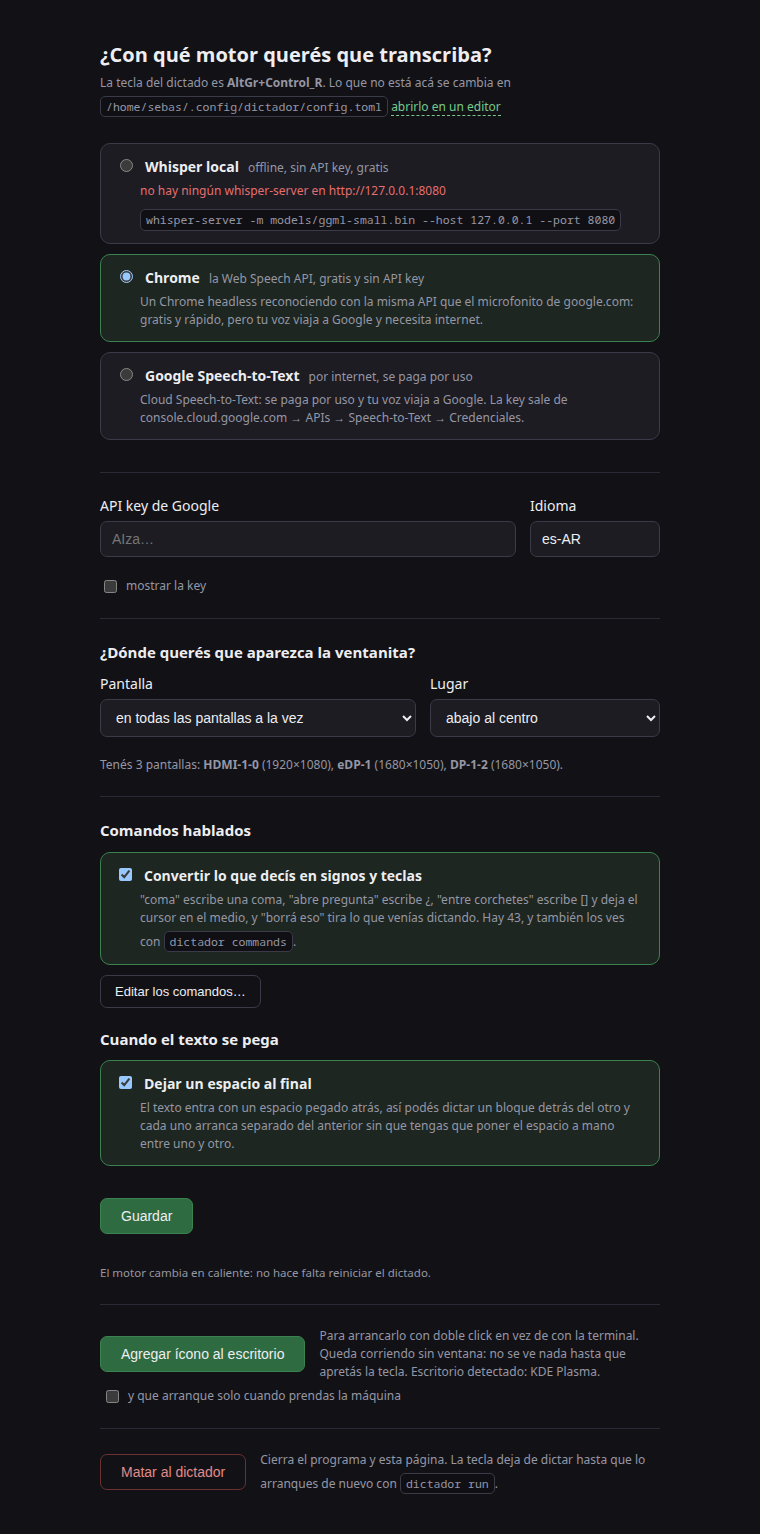
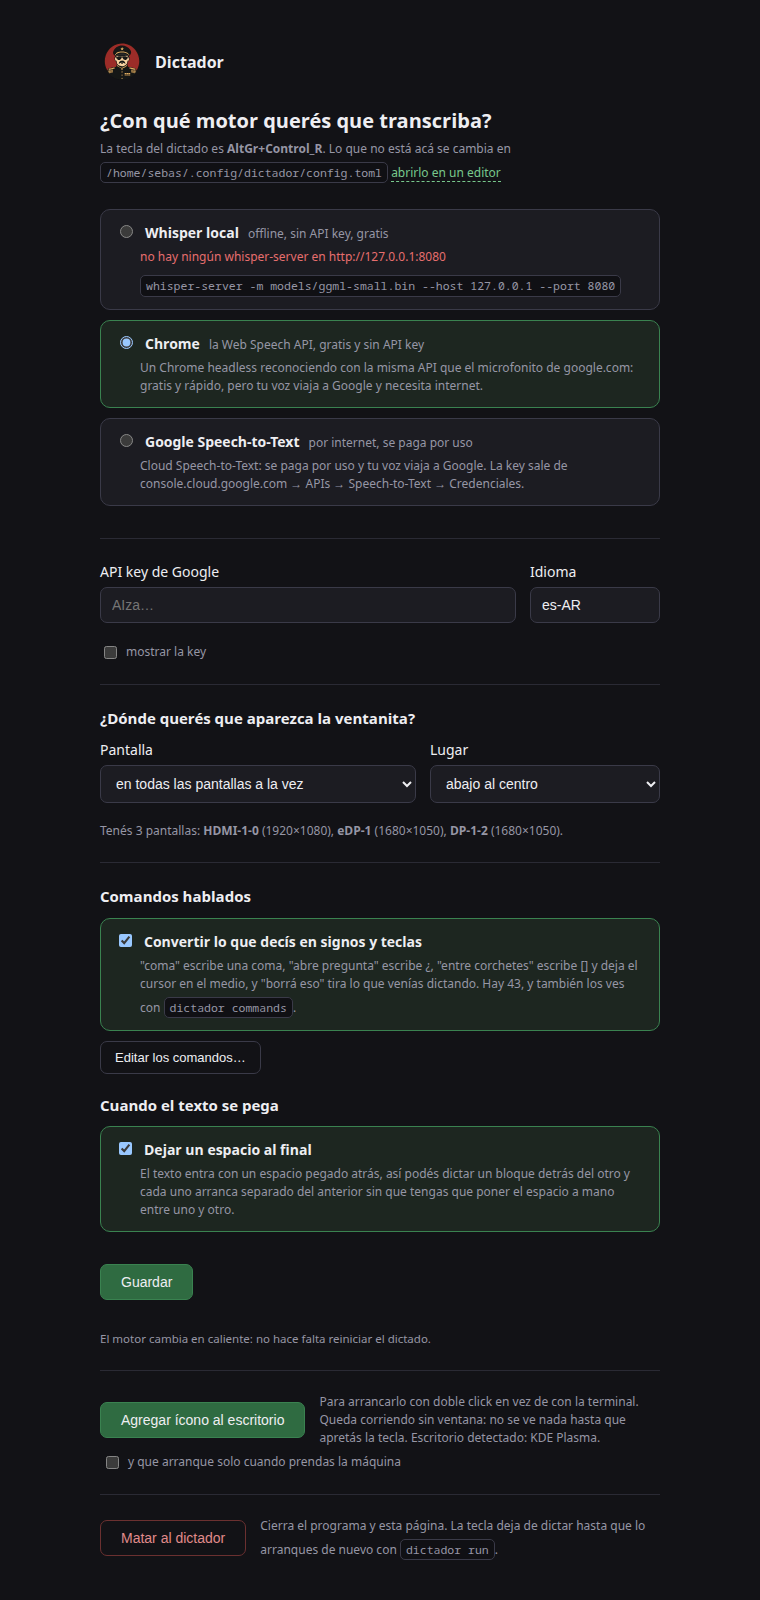
El dictador de la gorra, en el escritorio y en la configuración
El ícono era un micrófono dibujado a mano que servía de marcador de posición.
Ahora es el dictador de gorra y anteojos negros, y es el mismo archivo en los dos
lugares donde se ve: el que se copia a ~/.local/share/icons cuando se crea el
atajo, y el que la página de configuración sirve en /icon.svg.

La página lo pide por URL en vez de traerlo pegado adentro del HTML porque el
favicon necesita una dirección sí o sí, y ese favicon es además lo que se ve en
la barra de tareas mientras la config está abierta: la ventana la abre un Chrome
en modo aplicación, sin barra de direcciones. Arriba del título va el mismo
dibujo con el nombre al lado, que el título es una pregunta y una pregunta sola
no dice de qué programa es la ventana.

diff --git a/internal/webconfig/page.html b/internal/webconfig/page.html
@@ -6,6 +6,10 @@
      encima de la ventana. Es nuestra página y ya está en el idioma que va. -->
 <meta name="google" content="notranslate">
 <title>Dictador — configuración</title>
+<!-- El mismo dibujo que va al escritorio. Acá es el favicon, y como esta ventana
+     la abre un Chrome en modo aplicación —sin barra de direcciones— es también
+     el ícono que se ve en la barra de tareas mientras la config está abierta. -->
+<link rel="icon" type="image/svg+xml" href="/icon.svg">
 <style>
   :root {
     color-scheme: dark;
@@ -26,6 +30,12 @@
     display: flex; justify-content: center;
   }
   main { width: 100%; max-width: 560px; }
+  /* El ícono y el nombre, arriba de todo: el título de la página es una
+     pregunta —"¿con qué motor…?"— y una pregunta sola no dice de qué programa
+     es la ventana. */
+  .brand { display: flex; align-items: center; gap: 11px; margin: 0 0 22px; }
+  .brand img { width: 44px; height: 44px; display: block; }
+  .brand span { font-size: 16px; font-weight: 600; }
   h1 { font-size: 20px; font-weight: 600; margin: 0 0 4px; }
   .sub { color: var(--dim); font-size: 12px; margin: 0 0 26px; }
   fieldset { border: 0; margin: 0 0 20px; padding: 0; }
@@ -153,6 +163,13 @@
 </style>
 
 <main>
+  <p class="brand">
+    <!-- alt vacío a propósito: el nombre está escrito al lado y un lector de
+         pantalla que diga "Dictador Dictador" no ayuda a nadie. -->
+    <img src="/icon.svg" alt="" width="44" height="44">
+    <span>Dictador</span>
+  </p>
+
   <h1>¿Con qué motor querés que transcriba?</h1>
   <p class="sub">La tecla del dictado es <strong>{{.HotkeyLabel}}</strong>. Lo que
     no está acá se cambia en <a href="#" id="edit" title="abrirlo con el editor que tengas">

diff --git a/internal/webconfig/desktopicon_test.go b/internal/webconfig/desktopicon_test.go
@@ -1,8 +1,10 @@
 package webconfig
 
 import (
+	"bytes"
 	"encoding/json"
 	"errors"
+	"io"
 	"net/http"
 	"net/http/httptest"
 	"strings"
@@ -171,5 +173,45 @@ func TestDesktopIconCuentaSiElArranqueAutomaticoFalla(t *testing.T) {
 	code, reply := iconRequest(t, s, http.MethodPost, `{"action":"autostart-on"}`)
 	if code != http.StatusInternalServerError || !strings.Contains(reply.Error, "disco") {
 		t.Fatalf("code=%d reply=%+v", code, reply)
+	}
+}
+
+// El ícono que muestra la página y el que se instala en el escritorio son el
+// mismo archivo. Que lo sigan siendo es lo que estas dos pruebas cuidan: una
+// copia al lado de la página se despega del original en cuanto alguien cambia
+// el dibujo, y nadie se entera hasta ver dos dictadores distintos en la pantalla
+// y en el escritorio.
+func TestLaPáginaSirveElMismoÍconoQueVaAlEscritorio(t *testing.T) {
+	server := newServer(t, config.Defaults())
+
+	answer, err := http.Get(server.URL() + "icon.svg")
+	if err != nil {
+		t.Fatalf("no pude pedir el ícono: %v", err)
+	}
+	defer answer.Body.Close()
+	body, _ := io.ReadAll(answer.Body)
+
+	if answer.StatusCode != http.StatusOK {
+		t.Fatalf("el ícono dio %d", answer.StatusCode)
+	}
+	// Sin el tipo, el browser se lo baja en vez de dibujarlo, y el favicon no
+	// aparece.
+	if got := answer.Header.Get("Content-Type"); got != "image/svg+xml" {
+		t.Errorf("Content-Type = %q", got)
+	}
+	if !bytes.Equal(body, desktop.IconSVG()) {
+		t.Errorf("la página sirve un dibujo distinto del que se instala (%d bytes contra %d)",
+			len(body), len(desktop.IconSVG()))
+	}
+}
+
+func TestLaPáginaMuestraElÍcono(t *testing.T) {
+	body := get(t, newServer(t, config.Defaults()).URL())
+
+	if !strings.Contains(body, `<link rel="icon" type="image/svg+xml" href="/icon.svg">`) {
+		t.Error("la página no declara el favicon: la ventana queda con el ícono genérico del browser")
+	}
+	if !strings.Contains(body, `<img src="/icon.svg"`) {
+		t.Error("el dictador no se ve en la pantalla de configuración")
 	}
 }

diff --git a/internal/webconfig/desktopicon.go b/internal/webconfig/desktopicon.go
@@ -15,6 +15,23 @@ import (
 	"github.com/neitanod/dictador/internal/desktop"
 )
 
+// handleIcon sirve el mismo dibujo que se instala en el escritorio, para que la
+// página lo muestre arriba del título y lo use de favicon.
+//
+// Es el favicon el que obliga a que esto sea una dirección y no un SVG pegado
+// dentro del HTML: el browser lo pide aparte. Y en la ventana que abre `dictador
+// config` —un Chrome en modo --app, sin barra de direcciones— ese favicon es
+// además el ícono que se ve en la barra de tareas mientras la configuración
+// está abierta.
+func (s *Server) handleIcon(w http.ResponseWriter, r *http.Request) {
+	w.Header().Set("Content-Type", "image/svg+xml")
+	// El server escucha en un puerto distinto cada vez que abrís la
+	// configuración, así que una copia guardada no se reusaría casi nunca y sí
+	// podría mostrar el ícono viejo después de actualizar el programa.
+	w.Header().Set("Cache-Control", "no-store")
+	_, _ = w.Write(desktop.IconSVG())
+}
+
 // iconActions es lo que la página puede hacerle al escritorio.
 type iconActions struct {
 	install       func() (desktop.Result, error)

diff --git a/internal/desktop/desktop.go b/internal/desktop/desktop.go
@@ -22,6 +22,15 @@ import (
 //go:embed icon.svg
 var iconSVG []byte
 
+// IconSVG es el dibujo del dictador, para el que quiera mostrarlo sin instalar
+// nada: la configuración web lo sirve como favicon y lo pone arriba del título.
+// Vive acá y no en una copia al lado de la página porque un ícono que se ve en
+// la pantalla distinto del que aparece en el escritorio es peor que no tener
+// ninguno de los dos.
+func IconSVG() []byte {
+	return iconSVG
+}
+
 // fileName es el nombre del .desktop en todas las carpetas donde va. Es el
 // mismo a propósito: el escritorio identifica una aplicación por ese nombre, y
 // con dos distintos el menú y el autostart aparecerían como dos programas.

diff --git a/internal/webconfig/webconfig.go b/internal/webconfig/webconfig.go
@@ -102,6 +102,7 @@ func New(cfg config.Config) (*Server, error) {
 	mux.HandleFunc("/commands", s.handleCommands)
 	mux.HandleFunc("/edit", s.handleEdit)
 	mux.HandleFunc("/desktop-icon", s.handleDesktopIcon)
+	mux.HandleFunc("/icon.svg", s.handleIcon)
 	mux.HandleFunc("/quit", s.handleQuit)
 	s.server = &http.Server{Handler: mux}
 	go func() { _ = s.server.Serve(listener) }()
